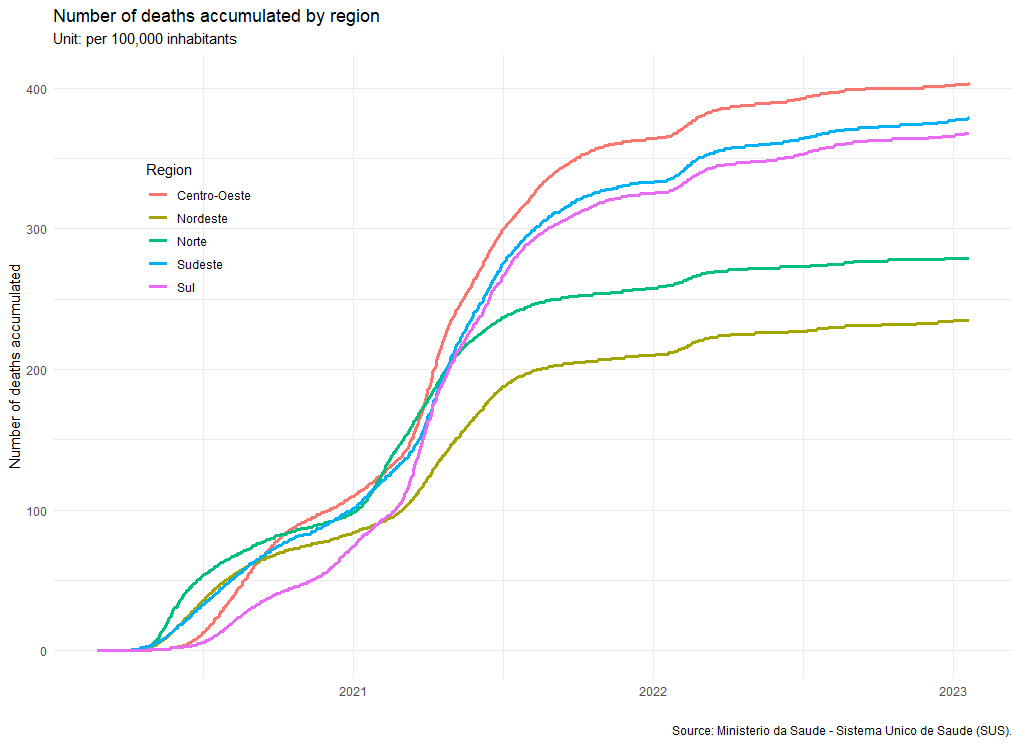
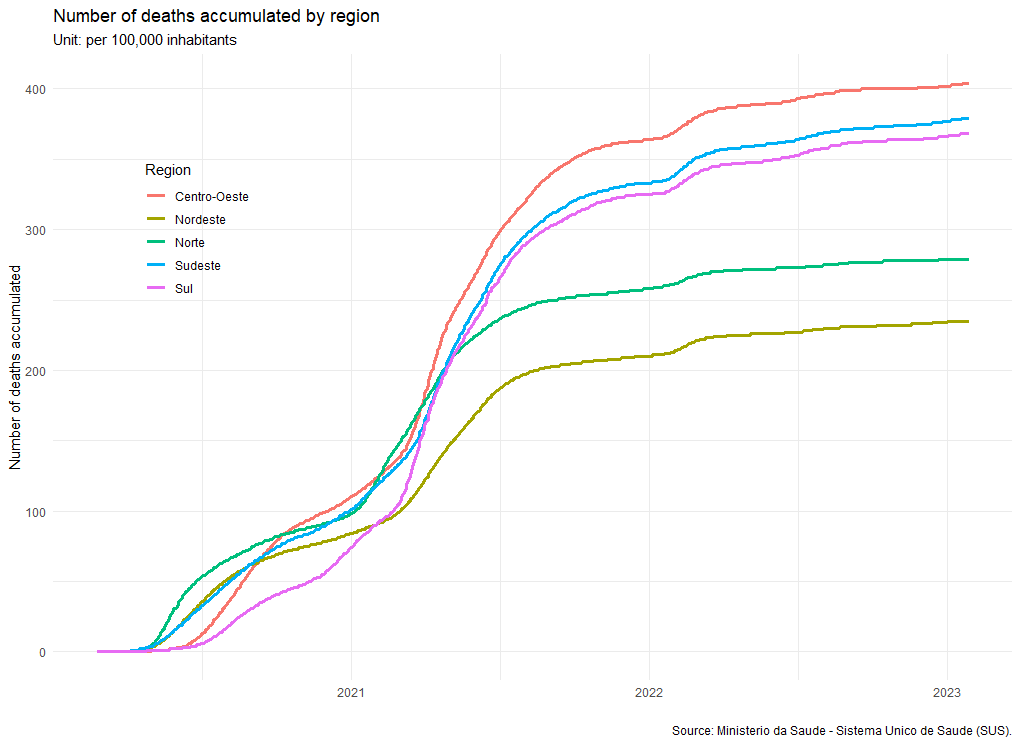
Update README file

diff --git a/README.md b/README.md
@@ -106,7 +106,7 @@ Saude (SUS)](https://www.gov.br/saude/pt-br). Data are available as of
 ## Cases accumulated per 100,000 inhabitants
 
 The graph below shows the number of cases accumulated in each Federative
-Unit of Brazil per 100,000 inhabitants (data for the day 2023-01-20).
+Unit of Brazil per 100,000 inhabitants (data for the day 2023-01-27).
 
 Data source: [Ministerio da Saude - Sistema Unico de Saude
 (SUS)](https://www.gov.br/saude/pt-br)
@@ -138,7 +138,7 @@ Data source: [Ministerio da Saude - Sistema Unico de Saude
 
 The graph below shows the number of accumulated deaths per 100,000
 inhabitants for each of Brazil’s five macro-regions, information until
-the 2023-01-20.
+the 2023-01-27.
 
 <img src="man/figures/deaths100.png" width="100%" />  
 
